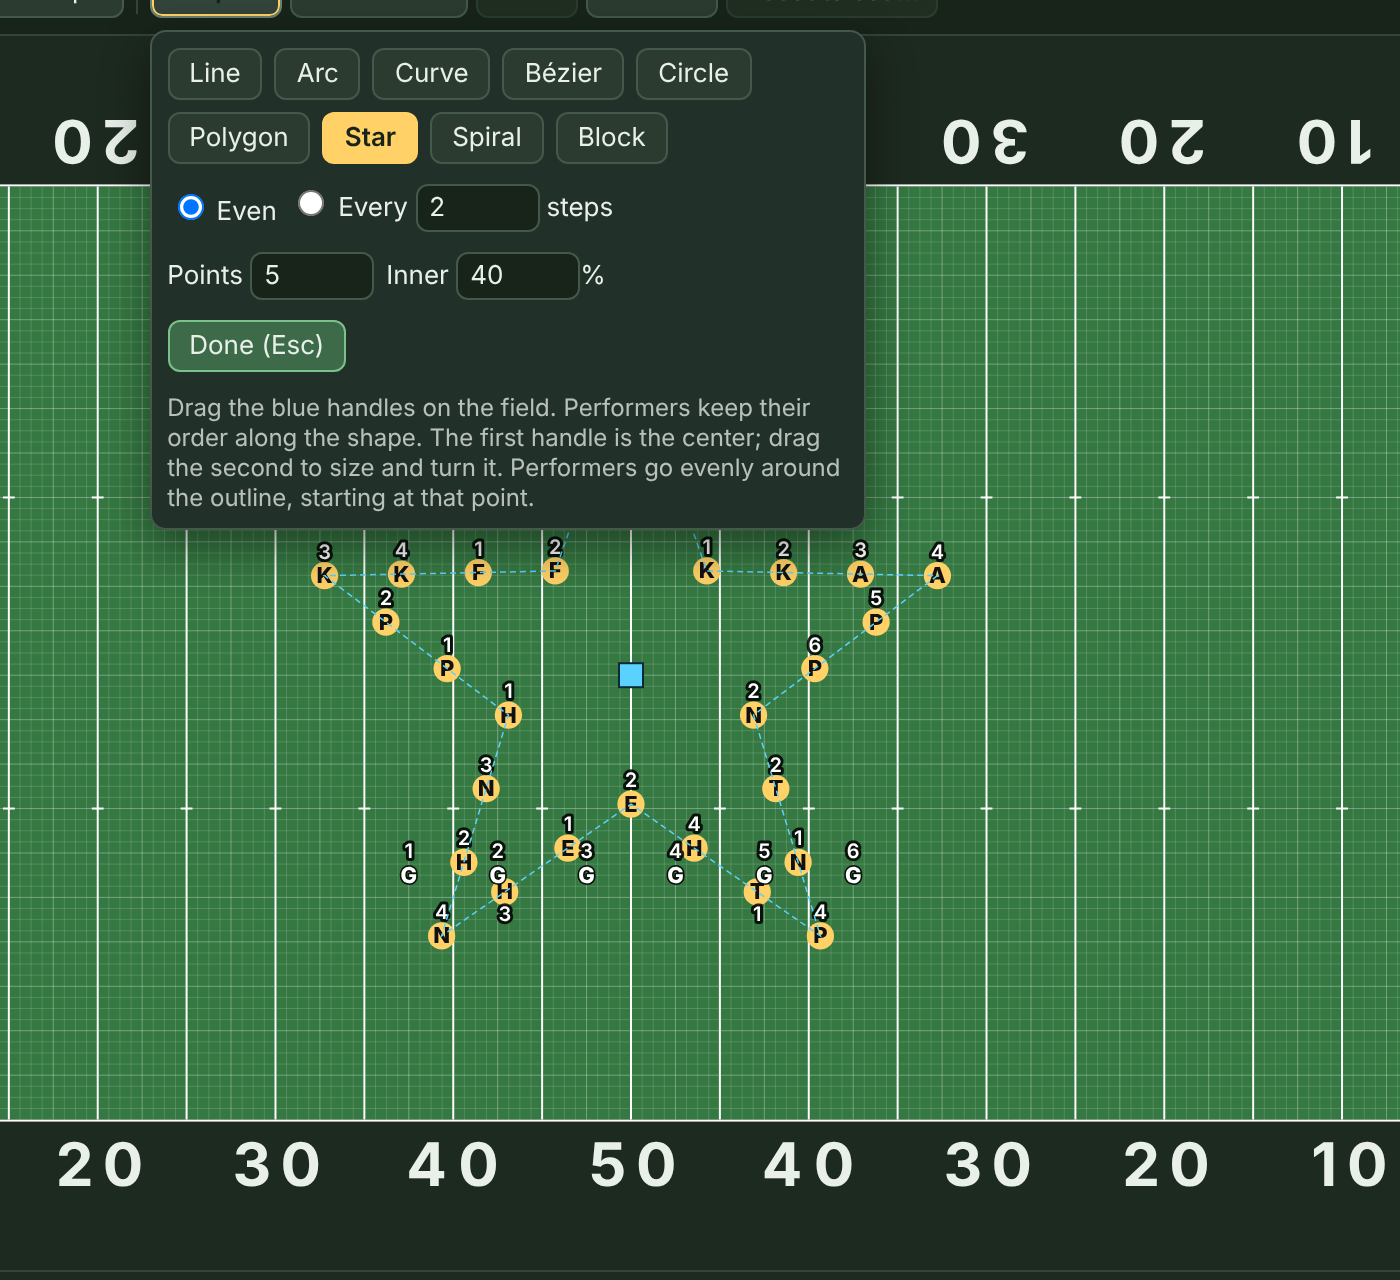
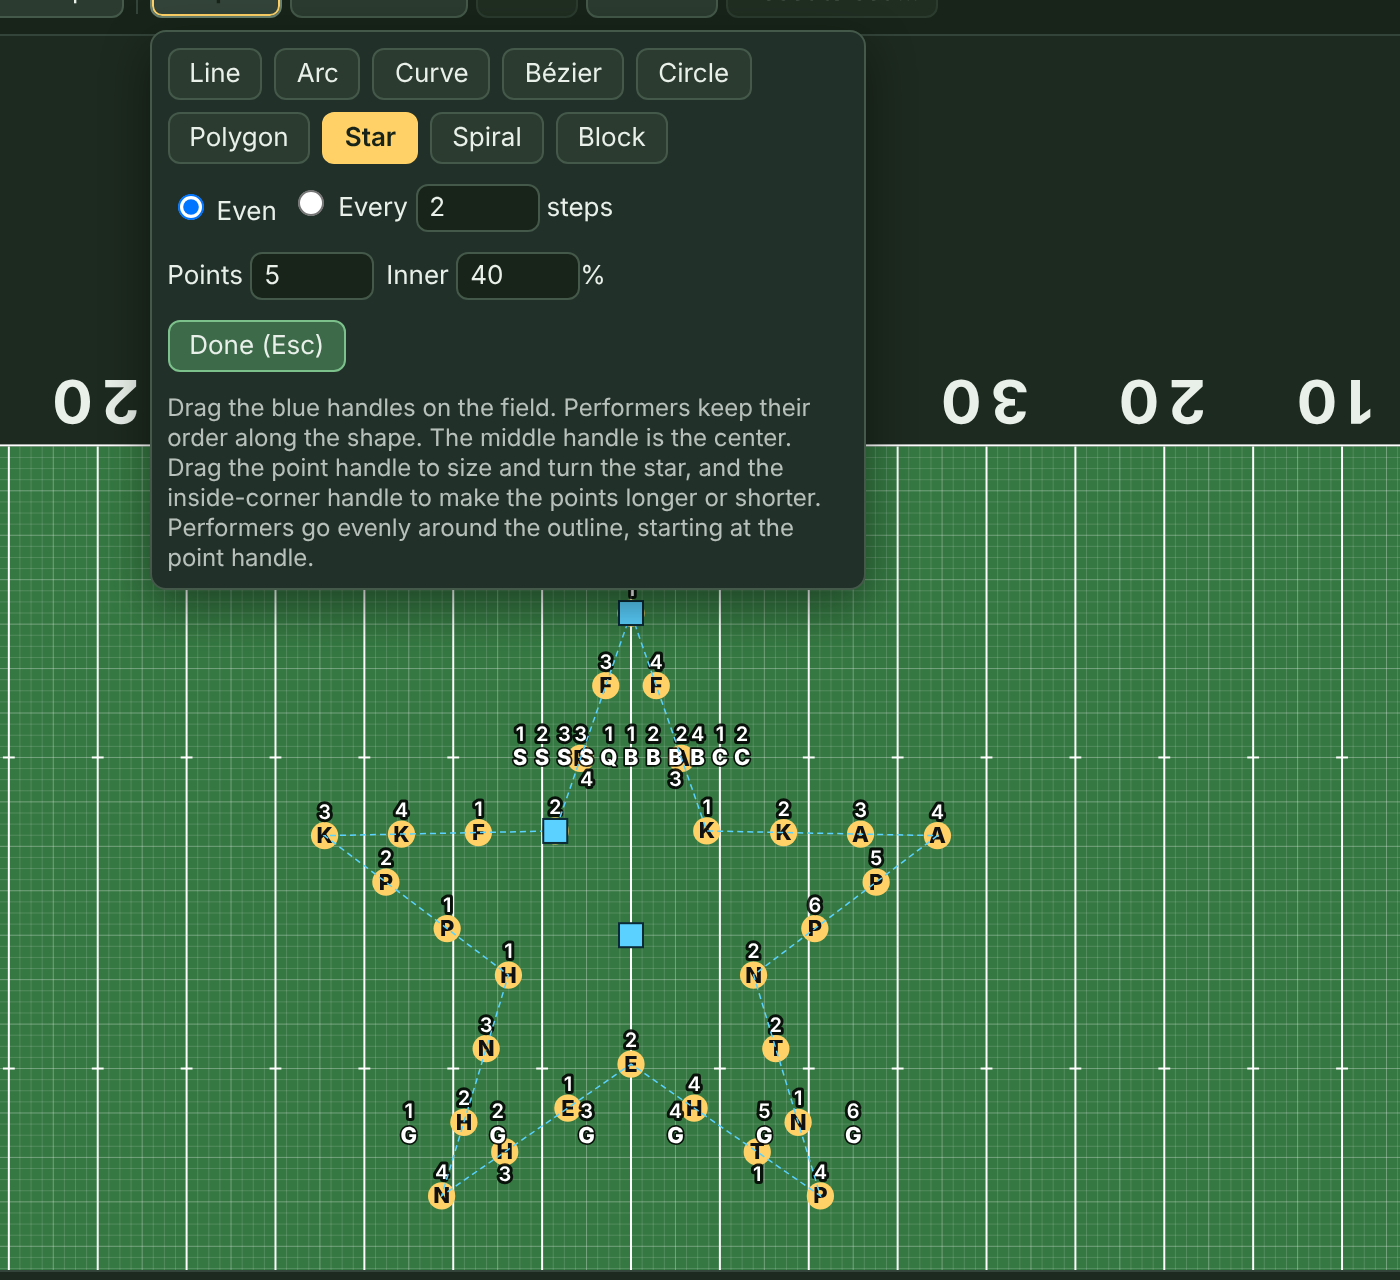
Star: a draggable inside-corner handle
The star now has three handles: center, a point (outer size and turn), and an
inside corner (inner size). The inner handle stays on its corner; turning,
resizing, or changing Points keeps the inside distance. Inner % moves it too.

Claude-Session: https://claude.ai/code/session_012ak5ZS7y7ZR1eS53teSgaT

diff --git a/src/engine/shapes.ts b/src/engine/shapes.ts
@@ -5,12 +5,13 @@ export type ShapeKind = 'line' | 'arc' | 'curve' | 'bezier' | 'circle' | 'polygo
 /**
  * Handles by kind: line [a, b]; arc [a, bend, b] (the arc passes through all three);
  * curve [p0..pn] (smooth curve through every point); circle [center, edge]; block [corner, opposite corner];
- * polygon [center, a corner]: `sides` equal sides; star [center, a point]: `sides` points, inner corners at `inner` x the radius;
+ * polygon [center, a corner]: `sides` equal sides; star [center, a point, an inside corner]: `sides` points; the inside
+ * corner handle sets how far in the inside corners sit (kept on the corner by `placeInner`);
  * spiral [center, outer end]: `turns` coils, counterclockwise going out (clockwise when `turns` is negative);
  * bezier [anchor, control, control, anchor, control, control, anchor, ...]: cubic segments that pass through the
  * anchors and are pulled toward (not through) the controls.
  */
-export interface Shape { kind: ShapeKind; handles: Point[]; interval: number | null; cols: number; turns?: number; sides?: number; inner?: number }
+export interface Shape { kind: ShapeKind; handles: Point[]; interval: number | null; cols: number; turns?: number; sides?: number }
 
 /** Distance between neighboring coils of a spiral, in steps. */
 export const coilGap = (s: Shape) => distance(s.handles[0], s.handles[1]) / Math.max(0.25, Math.abs(s.turns ?? 2));
@@ -32,7 +33,7 @@ export function samplePath(s: Shape): { pts: Point[]; closed: boolean } {
     const R = distance(h[0], h[1]), a0 = Math.atan2(h[1].y - h[0].y, h[1].x - h[0].x);
     const star = s.kind === 'star', n = Math.max(3, Math.round(s.sides ?? 5)) * (star ? 2 : 1);
     return { pts: Array.from({ length: n }, (_, i) => {
-      const r = star && i % 2 ? R * (s.inner ?? 0.4) : R, a = a0 + (2 * Math.PI * i) / n;
+      const r = star && i % 2 ? distance(h[0], h[2]) : R, a = a0 + (2 * Math.PI * i) / n;
       return { x: h[0].x + r * Math.cos(a), y: h[0].y + r * Math.sin(a) };
     }), closed: true };
   }
@@ -217,13 +218,23 @@ export function fitShape(kind: ShapeKind, pts: Point[]): Shape {
     case 'curve': return { kind, handles: [P(x0, cy), P(x0 + span / 3, cy + span / 6), P(x0 + (2 * span) / 3, cy - span / 6), P(x1, cy)], ...base };
     case 'bezier': return { kind, handles: [P(x0, cy), P(x0 + span / 3, cy + span / 3), P(x0 + (2 * span) / 3, cy - span / 3), P(x1, cy)], ...base };
     case 'circle': return { kind, handles: [P(cx, cy), P(cx + span / 2, cy)], ...base };
-    case 'polygon': case 'star': return { kind, handles: [P(cx, cy), P(cx, cy + span / 2)], ...base, sides: 5, inner: 0.4 }; // a corner straight up the field
+    case 'polygon': return { kind, handles: [P(cx, cy), P(cx, cy + span / 2)], ...base, sides: 5 }; // a corner straight up the field
+    case 'star': return placeInner({ kind, handles: [P(cx, cy), P(cx, cy + span / 2)], ...base, sides: 5 }, 0.4 * (span / 2));
     case 'spiral': return { kind, handles: [P(cx, cy), P(cx + span / 2, cy)], ...base, turns: 2 };
     case 'block': {
       const c = base.cols, r = Math.ceil(pts.length / c);
       return { kind, handles: [P(cx - (c - 1), cy + (r - 1)), P(cx + (c - 1), cy - (r - 1))], ...base, interval: 2 };
     }
   }
+}
+
+/**
+ * A star's inside-corner handle, put back on the inside corner just after the point handle, at distance `r` from the
+ * center (default: where it is now). Used after anything that turns the star or changes its points.
+ */
+export function placeInner(s: Shape, r = distance(s.handles[0], s.handles[2] ?? s.handles[0])): Shape {
+  const [c, tip] = s.handles, a = Math.atan2(tip.y - c.y, tip.x - c.x) + Math.PI / Math.max(3, Math.round(s.sides ?? 5));
+  return { ...s, handles: [c, tip, { x: c.x + r * Math.cos(a), y: c.y + r * Math.sin(a) }] };
 }
 
 /** Adds a curve point in the middle of its longest segment. */
@@ -265,6 +276,11 @@ function smoothAt(h: Point[], k: number): boolean {
  */
 export function moveHandle(s: Shape, k: number, p: Point, free = false): Shape {
   const h = [...s.handles];
+  if (s.kind === 'star') { // the inside-corner handle only sets a distance; it stays on its corner as the star turns
+    const r = distance(k === 2 ? p : s.handles[2], s.handles[0]); // moving the center or the point keeps the inside depth
+    h[k] = p;
+    return placeInner({ ...s, handles: h }, r);
+  }
   if (s.kind !== 'bezier' || free) { h[k] = p; return { ...s, handles: h }; }
   if (k % 3 === 0) {
     const dx = p.x - h[k].x, dy = p.y - h[k].y;

diff --git a/src/ui/Toolbar.tsx b/src/ui/Toolbar.tsx
@@ -1,7 +1,8 @@
 import { createPortal } from 'react-dom';
 import { IconFit, IconRedo, IconSidebar, IconTimeline, IconUndo } from './icons';
 import { useEffect, useLayoutEffect, useRef, useState, type ReactNode } from 'react';
-import { addBezierSegment, addCurvePoint, coilGap, type Shape, type ShapeKind } from '../engine/shapes';
+import { addBezierSegment, addCurvePoint, coilGap, placeInner, type Shape, type ShapeKind } from '../engine/shapes';
+import { distance } from '../engine/coords';
 import {
   chainOrder, clearFtl, flip, setFtlTurns, label, mirrorSides, placeInSet, removePerformers, rotateScale, setFtl, setLabelSide, snapSelection,
   type LabelSide, type Show,
@@ -254,10 +255,11 @@ function ShapePanel({ shape, startShape, updateShape, endShape }: ToolbarProps) 
           {(shape.kind === 'polygon' || shape.kind === 'star') && (
             <div style={row}>
               <label>{shape.kind === 'star' ? 'Points' : 'Sides'} <NumberField aria-label={shape.kind === 'star' ? 'Points' : 'Sides'} min={3} max={12} integer
-                value={shape.sides ?? 5} style={{ width: 48 }} onValue={(n) => updateShape({ sides: n })} /></label>
+                value={shape.sides ?? 5} style={{ width: 48 }} onValue={(n) => updateShape(shape.kind === 'star' ? placeInner({ ...shape, sides: n }) : { sides: n })} /></label>
               {shape.kind === 'star' && <label title="How far in the inside corners sit, as a percent of the points' distance from the center">Inner{' '}
-                <NumberField aria-label="Inner corners, percent" min={10} max={90} integer value={Math.round((shape.inner ?? 0.4) * 100)} style={{ width: 48 }}
-                  onValue={(n) => updateShape({ inner: n / 100 })} />%</label>}
+                <NumberField aria-label="Inner corners, percent" min={5} max={100} integer style={{ width: 48 }}
+                  value={Math.round((distance(shape.handles[0], shape.handles[2]) / (distance(shape.handles[0], shape.handles[1]) || 1)) * 100)}
+                  onValue={(n) => updateShape(placeInner(shape, (n / 100) * distance(shape.handles[0], shape.handles[1])))} />%</label>}
             </div>
           )}
           {shape.kind === 'spiral' && (
@@ -285,7 +287,7 @@ function ShapePanel({ shape, startShape, updateShape, endShape }: ToolbarProps) 
           </div>
           <p style={help}>
             Drag the blue handles on the field. Performers keep their order along the shape.
-            {(shape.kind === 'polygon' || shape.kind === 'star') && ` The first handle is the center; drag the second to size and turn it. Performers go evenly around the outline, starting at that ${shape.kind === 'star' ? 'point' : 'corner'}.`}
+            {(shape.kind === 'polygon' || shape.kind === 'star') && ` ${shape.kind === 'star' ? 'The middle handle is the center. Drag the point handle to size and turn the star, and the inside-corner handle to make the points longer or shorter.' : 'The first handle is the center; drag the corner handle to size and turn it.'} Performers go evenly around the outline, starting at the ${shape.kind === 'star' ? 'point' : 'corner'} handle.`}
             {shape.kind === 'spiral' && ' The first handle is the center; the second is the outer end. Intervals are measured performer to performer.'}
             {shape.kind === 'bezier' && ' Squares are points the curve passes through; circles pull the curve toward them. Hold Option (Alt) while dragging to move one handle by itself, e.g. to make a corner.'}
           </p>

diff --git a/src/engine/shapes.test.ts b/src/engine/shapes.test.ts
@@ -1,6 +1,6 @@
 import { describe, expect, it } from 'vitest';
 import { distance, type Point } from './coords';
-import { addBezierSegment, addCurvePoint, assign, coilGap, fitShape, isControl, moveHandle, samplePath, slots, type Shape } from './shapes';
+import { addBezierSegment, addCurvePoint, assign, coilGap, fitShape, isControl, moveHandle, placeInner, samplePath, slots, type Shape } from './shapes';
 
 const near = (p: Point, x: number, y: number) => { expect(p.x).toBeCloseTo(x, 4); expect(p.y).toBeCloseTo(y, 4); };
 const S = (kind: Shape['kind'], handles: Point[], extra: Partial<Shape> = {}): Shape => ({ kind, handles, interval: null, cols: 3, ...extra });
@@ -20,13 +20,22 @@ describe('slots', () => {
     const p = slots(S('polygon', [{ x: 0, y: 0 }, { x: 8, y: 0 }], { sides: 4 }), 8);
     near(p[0], 8, 0); near(p[2], 0, 8); near(p[4], -8, 0); near(p[6], 0, -8); near(p[1], 4, 4);
   });
-  it('star: points at the radius, inner corners at inner x the radius', () => {
-    const { pts, closed } = samplePath(S('star', [{ x: 0, y: 0 }, { x: 0, y: 10 }], { sides: 5, inner: 0.4 }));
+  it('star: points at the outer handle, inside corners at the inner handle', () => {
+    const star = placeInner(S('star', [{ x: 0, y: 0 }, { x: 0, y: 10 }], { sides: 5 }), 4);
+    near(star.handles[2], -4 * Math.sin(Math.PI / 5), 4 * Math.cos(Math.PI / 5)); // on the first inside corner
+    const { pts, closed } = samplePath(star);
     expect(closed).toBe(true); expect(pts).toHaveLength(10);
     pts.forEach((q, i) => expect(Math.hypot(q.x, q.y)).toBeCloseTo(i % 2 ? 4 : 10, 6));
-    near(pts[0], 0, 10);
-    expect(slots(S('star', [{ x: 0, y: 0 }, { x: 0, y: 10 }], { sides: 5, inner: 0.4 }), 10).map((q) => Math.round(Math.hypot(q.x, q.y))))
-      .toEqual([10, 4, 10, 4, 10, 4, 10, 4, 10, 4]); // one performer per corner when there are just enough
+    expect(slots(star, 10).map((q) => Math.round(Math.hypot(q.x, q.y)))).toEqual([10, 4, 10, 4, 10, 4, 10, 4, 10, 4]); // one per corner
+  });
+  it('star: dragging the inner handle sets only the inside depth; turning the star carries it along', () => {
+    const star = placeInner(S('star', [{ x: 0, y: 0 }, { x: 0, y: 10 }], { sides: 5 }), 4);
+    const deeper = moveHandle(star, 2, { x: 6, y: 0 }); // dragged off its corner: snaps back onto it, 6 out
+    near(deeper.handles[2], -6 * Math.sin(Math.PI / 5), 6 * Math.cos(Math.PI / 5));
+    const turned = moveHandle(star, 1, { x: 10, y: 0 }); // point now to the right: inner corner a fifth of a half turn on
+    near(turned.handles[2], 4 * Math.cos(Math.PI / 5), 4 * Math.sin(Math.PI / 5));
+    const moved = moveHandle(star, 0, { x: 2, y: 0 }); // moving the center keeps the inside depth
+    expect(distance(moved.handles[0], moved.handles[2])).toBeCloseTo(4, 6);
   });
   it('spiral: a set interval, performer to performer, from the center', () => {
     const p = slots(S('spiral', [{ x: 0, y: 0 }, { x: 16, y: 0 }], { turns: 2, interval: 2 }), 30);

diff --git a/docs/HOW-TO.md b/docs/HOW-TO.md
@@ -163,7 +163,9 @@ The timeline then runs the full length, with the part you haven't written yet st
 
 FreeFORM decides who goes to which spot by keeping total travel from the previous set as short as it can, so the paths don't cross. Curves can take extra points (**+ Curve point**) and Béziers extra segments (**+ Segment**). Bézier joints stay smooth unless you hold Option (Alt on Windows) while you drag a handle. Blocks also take a number of **Columns**.
 
-**Polygons and stars** have two handles: the center, and a corner (or a star's point). Drag the corner to size the shape and turn it. Set the number of **Sides** for a polygon (3 for a triangle, 4 for a diamond, 6 for a hexagon), or **Points** for a star. **Inner** sets how far in a star's inside corners sit, as a percent of the distance from the center to the points. Performers go evenly around the outline, starting at the corner under the handle. To put someone on every corner, use a number of performers that's a multiple of the corners (5, 10, 15 for a 5-sided polygon; 10, 20 for a 5-point star, which has 10 corners).
+**Polygons** are regular: every side is the same length. Set the number of **Sides** (3 for a triangle, 4 for a diamond, 6 for a hexagon). A polygon has two handles: the center, and a corner. Drag the corner to size the polygon and turn it.
+
+**Stars** have three handles: the center, a point, and an inside corner. Drag the point to size the star and turn it. Drag the inside corner toward the center for long, thin points, or away for short, fat ones. It stays on its corner as you drag. Set the number of **Points**, or type how deep the inside corners sit in **Inner**, as a percent of the distance from the center to the points. Performers go evenly around the outline, starting at the corner under the handle. To put someone on every corner, use a number of performers that's a multiple of the corners (5, 10, 15 for a 5-sided polygon; 10, 20 for a 5-point star, which has 10 corners).
 
 ![A block shaped into a star](img/shape-star.png)
 

diff --git a/DECISIONS.md b/DECISIONS.md
@@ -1058,3 +1058,9 @@ Each entry: timestamp, who decided, context, options considered, decision.
 - **Context:** Regular polygons and stars are common forms. They need a way to set the corner count and, for a star, how deep its inside corners go.
 - **Options:** Corner handles you drag one by one; a center and one corner handle with a number of sides. Performers only on the corners, or evenly around the outline.
 - **Decision:** Center and one corner handle (dragging it sizes and turns the shape), **Sides** 3 to 12 for a polygon, **Points** 3 to 12 and **Inner** 10 to 90% for a star (default 5 and 40%). Both start with a corner straight up the field. Performers go evenly around the outline from the handle's corner, so every corner gets someone when the count is a multiple of the corners. Shortcuts: **P** Polygon, **X** Star (S was already Spiral).
+
+## 2026-11-04 23:55 EST — Star inside-corner handle
+- **Who:** Jason Tiller asked for handles for the star's inner and outer size.
+- **Context:** The star had a point handle (outer size) but set its inner size only by a percent.
+- **Options:** Keep the inside depth as a percent of the outer size, so it grows with the star; or as a distance set by its own handle.
+- **Decision:** A third handle on the first inside corner. Dragging it sets only the inside distance from the center, and it snaps back onto its corner. Turning or resizing the star with the point handle, moving the center, or changing **Points** keeps that distance. **Inner** % still works and moves the handle. *(The fixed distance, not a percent, is Claude's call; Jason can veto.)*
